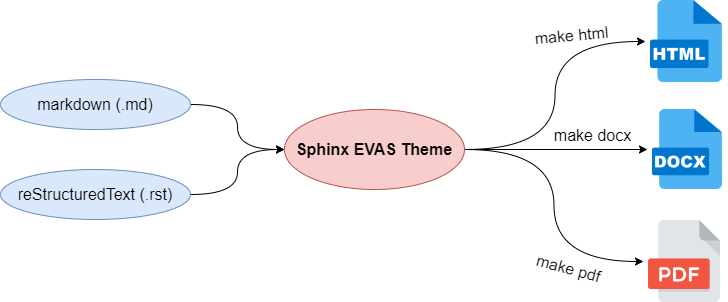
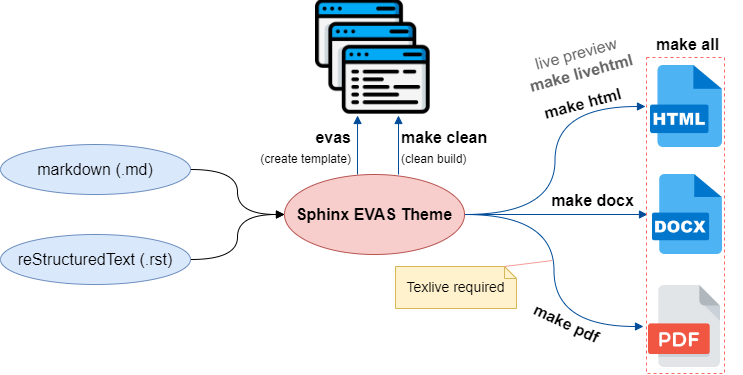
update intro picture

Changed region(s): [[0.0, 0.0, 0.9973, 1.0], [0.7253, 0.745, 0.7555, 0.7748], [0.3022, 0.3576, 0.3324, 0.3874]]

diff --git a/README.md b/README.md
@@ -20,7 +20,7 @@ Sphinx EVAS Theme是一个为企业文档标准化而构建的sphinx主题，支
 
 用户通过简单的命令即可实现项目文档模板初始化(evas命令，取代sphinx-quickstart)、文档构建(make html, make pdf以及make all)工作。
 
-![](https://img2.imgtp.com/2024/03/24/1eUX7bux.png)
+![](https://img2.imgtp.com/2024/03/24/jKIzqusC.png)
 
 
 ## 项目参考
